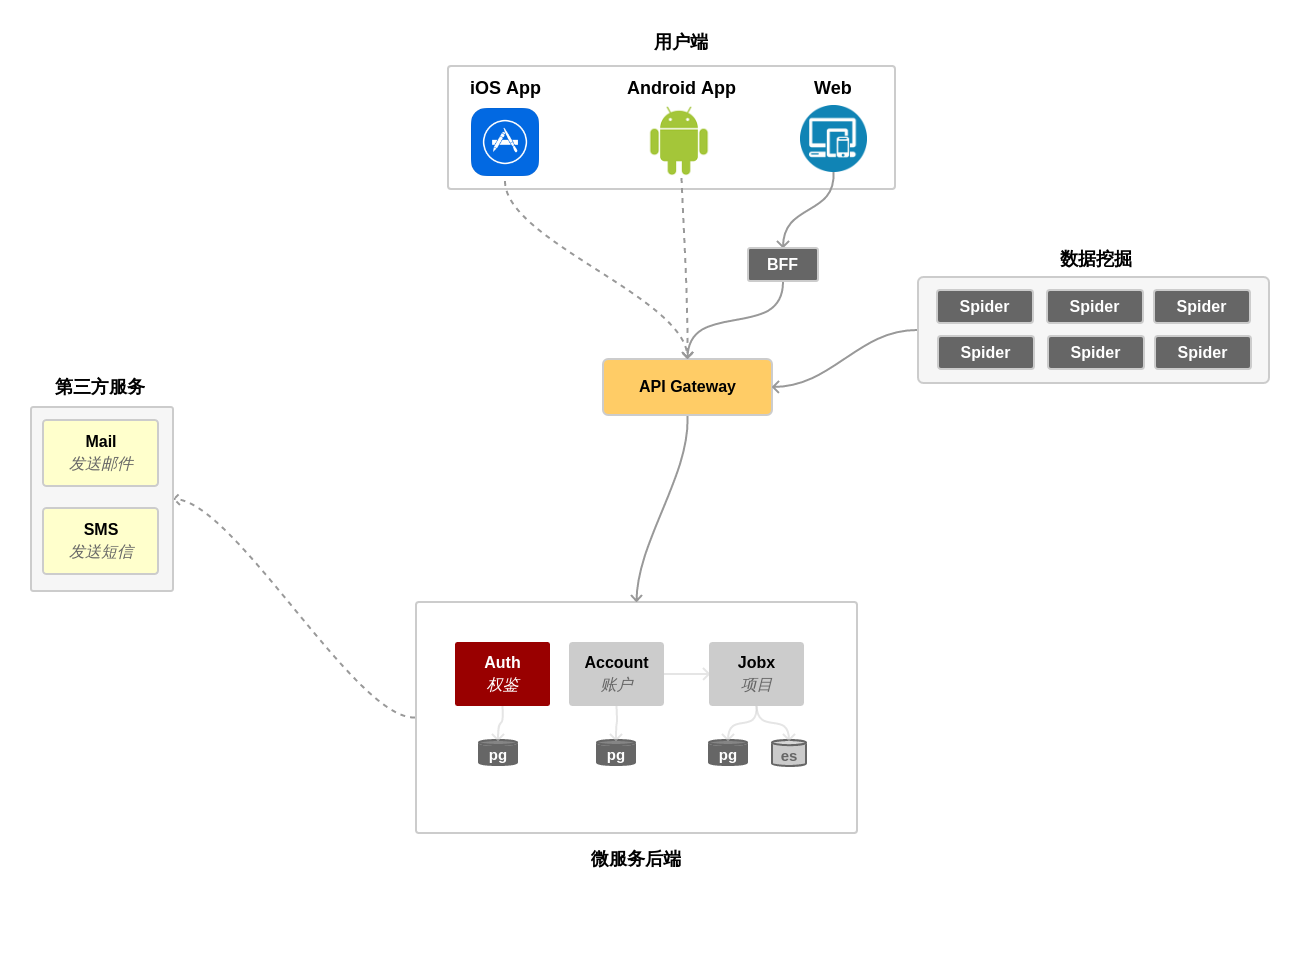
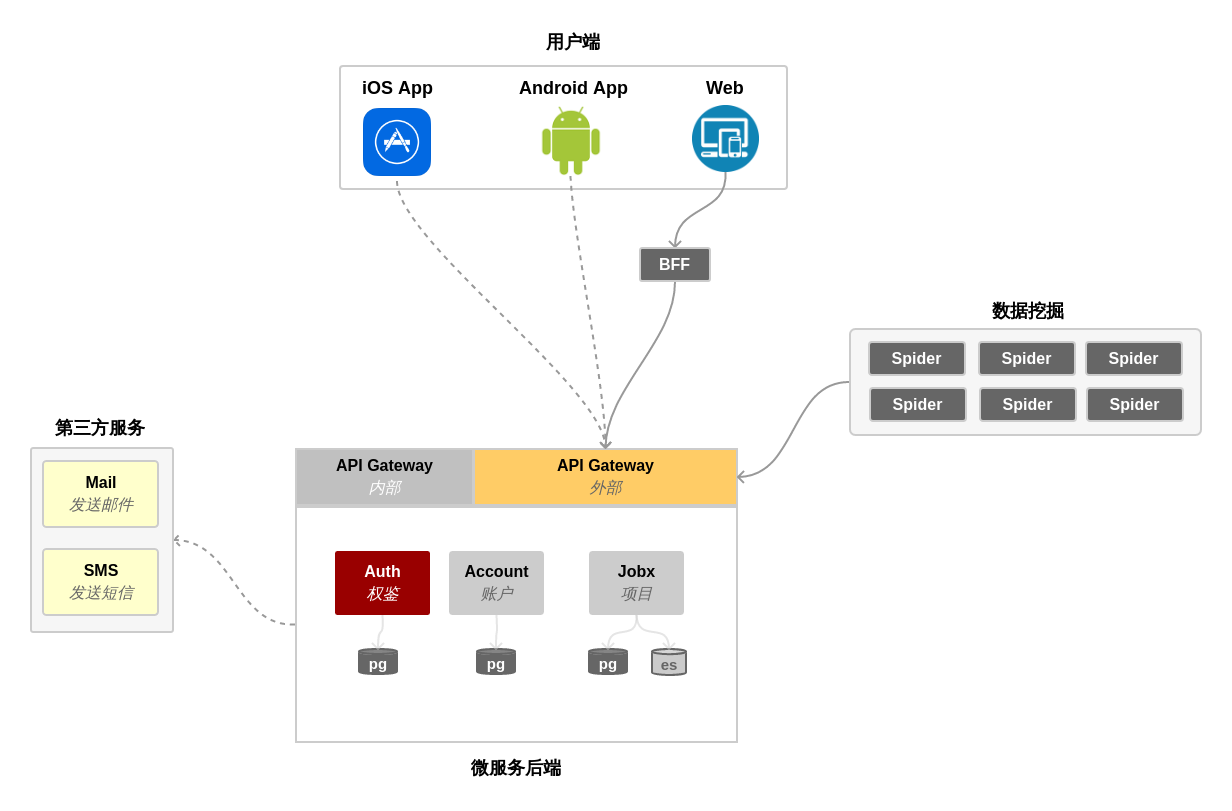
更新微服务架构图

diff --git a/docs/README.md b/docs/README.md
@@ -3,7 +3,7 @@
 
 ## 架构设计
 
-![](./design/remotex-arch.png)
+![](./design/remotex-arch-ms.png)
 
 
 ## API
